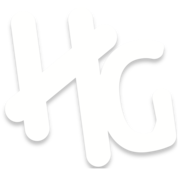
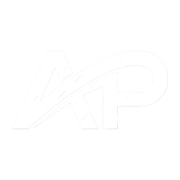
db added

diff --git a/pages/api/addPortfolioData.ts b/pages/api/addPortfolioData.ts
@@ -1,0 +1,27 @@
+import { MongoClient } from 'mongodb';
+import { NextApiRequest, NextApiResponse } from 'next';
+import { getDbClient } from '../../api/utils/db';
+
+let dbClient: MongoClient;
+
+export default async (req: NextApiRequest, res: NextApiResponse): Promise<void> => {
+  // We can hit the api the req data will come here like api/addPortfolioData   as the folder structure represent the url
+  if (req.method === 'POST') {
+    try {
+      dbClient = await getDbClient();
+      const newData = req.body;
+      const result = await dbClient.db().collection('personaldata').insertOne(newData);
+      res.status(201).json({ success: true, data: result?.ops });
+    } catch (err) {
+      res.status(500).json({ success: false, error: err.message });
+    } finally {
+      if (dbClient) {
+        await dbClient.close();
+      }
+    }
+  } else {
+    // Handle any other HTTP method
+    res.setHeader('Allow', ['POST']);
+    res.status(405).end(`Method ${req.method} Not Allowed`);
+  }
+};

diff --git a/components/connect/index.tsx b/components/connect/index.tsx
@@ -18,7 +18,7 @@ export default function Connect(): JSX.Element {
                 Schedule a 30 minutes call with me via Google meet.
               </p>
               <div className="flex flex-row justify-center lg:justify-start items-end">
-                {socialMedia.map(({ alt_text, image_file, link }) => {
+                {socialMedia?.map(({ alt_text, image_file, link }) => {
                   return (
                     <a href={link} key={link}>
                       <img

diff --git a/pages/api/health.ts b/pages/api/health.ts
@@ -5,7 +5,7 @@ export default (req: NextApiRequest, res: NextApiResponse): void => {
   try {
     const uptime = +new Date() - +date;
     res.statusCode = 200;
-    res.json({ name: 'Harsh Goel', uptime, startDate: date, currentDate: new Date() });
+    res.json({ name: 'Alok Pal', uptime, startDate: date, currentDate: new Date() });
   } catch (err) {
     res.statusCode = 500;
     res.json({ success: false, error: err });

diff --git a/shared/utils/apiService.tsx b/shared/utils/apiService.tsx
@@ -1,8 +1,7 @@
 import axios from 'axios';
 import { Company, PersonalDetails, Project } from './types';
 
-export const BASE_URL = `${process.env.BASE_URL}/api` || 'https://harshgoel.me/api';
-
+export const BASE_URL = `${process.env.NEXT_PUBLIC_BASE_URL}/api`;
 export async function getPersonalDetails(): Promise<PersonalDetails | boolean> {
   try {
     const { data } = await axios.get(`${BASE_URL}/me`);

diff --git a/pages/index.tsx b/pages/index.tsx
@@ -33,6 +33,7 @@ export default Home;
 export async function getStaticProps(): Promise<{
   props: { personalDetails: PersonalDetails; projectDetails: Project[] };
 }> {
+  console.log('I am hererrrrrrrr');
   const personalDetails = (await getPersonalDetails()) as PersonalDetails;
   const projectDetails = (await getProjectDetails()) as Project[];
   return { props: { personalDetails, projectDetails } };

diff --git a/pages/api/me.ts b/pages/api/me.ts
@@ -6,7 +6,7 @@ let dbClient: MongoClient;
 export default async (req: NextApiRequest, res: NextApiResponse): Promise<void> => {
   try {
     dbClient = await getDbClient();
-    const data = await dbClient.db().collection('details').findOne({});
+    const data = await dbClient.db().collection('personaldata').findOne({});
     res.statusCode = 200;
     res.json(data);
   } catch (err) {

diff --git a/api/utils/db.ts b/api/utils/db.ts
@@ -2,6 +2,7 @@ import { MongoClient } from 'mongodb';
 
 let dbClient: MongoClient;
 export async function initDbClient(): Promise<MongoClient> {
+  console.log("🚀 ~ initDbClient ~ process.env.MONGODB_URI:", process.env.MONGODB_URI)
   dbClient = await MongoClient.connect(process.env.MONGODB_URI || '', {
     useNewUrlParser: true,
     useUnifiedTopology: true,

diff --git a/pages/_app.tsx b/pages/_app.tsx
@@ -11,7 +11,7 @@ function MyApp({ Component, pageProps, router }: AppProps): JSX.Element {
 
   useEffect(() => {
     setLoading(false);
-  });
+  }, []);
 
   const spring = {
     type: 'spring',
